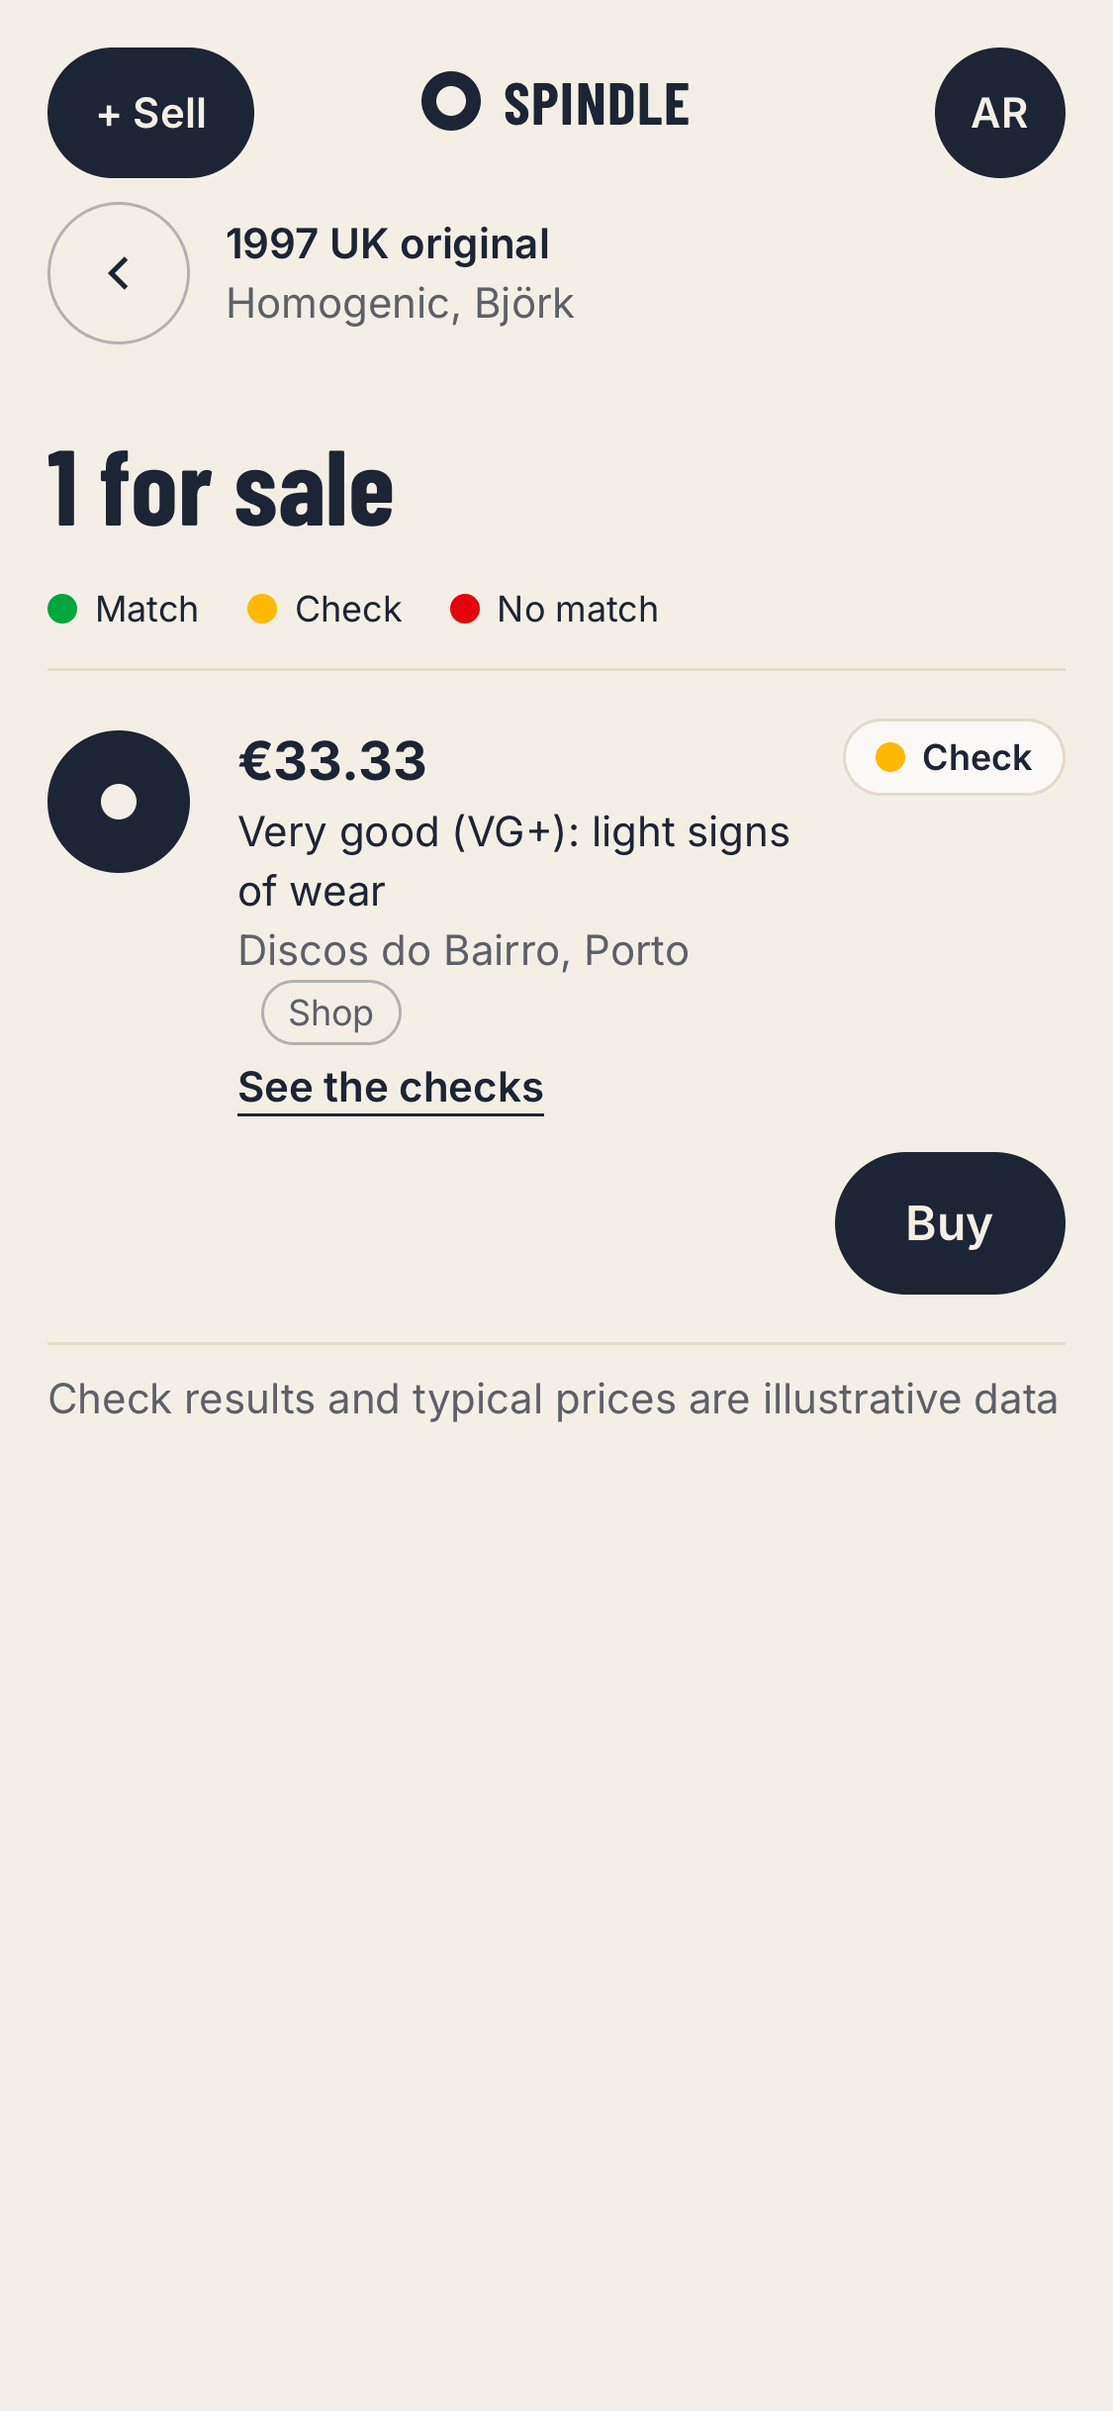
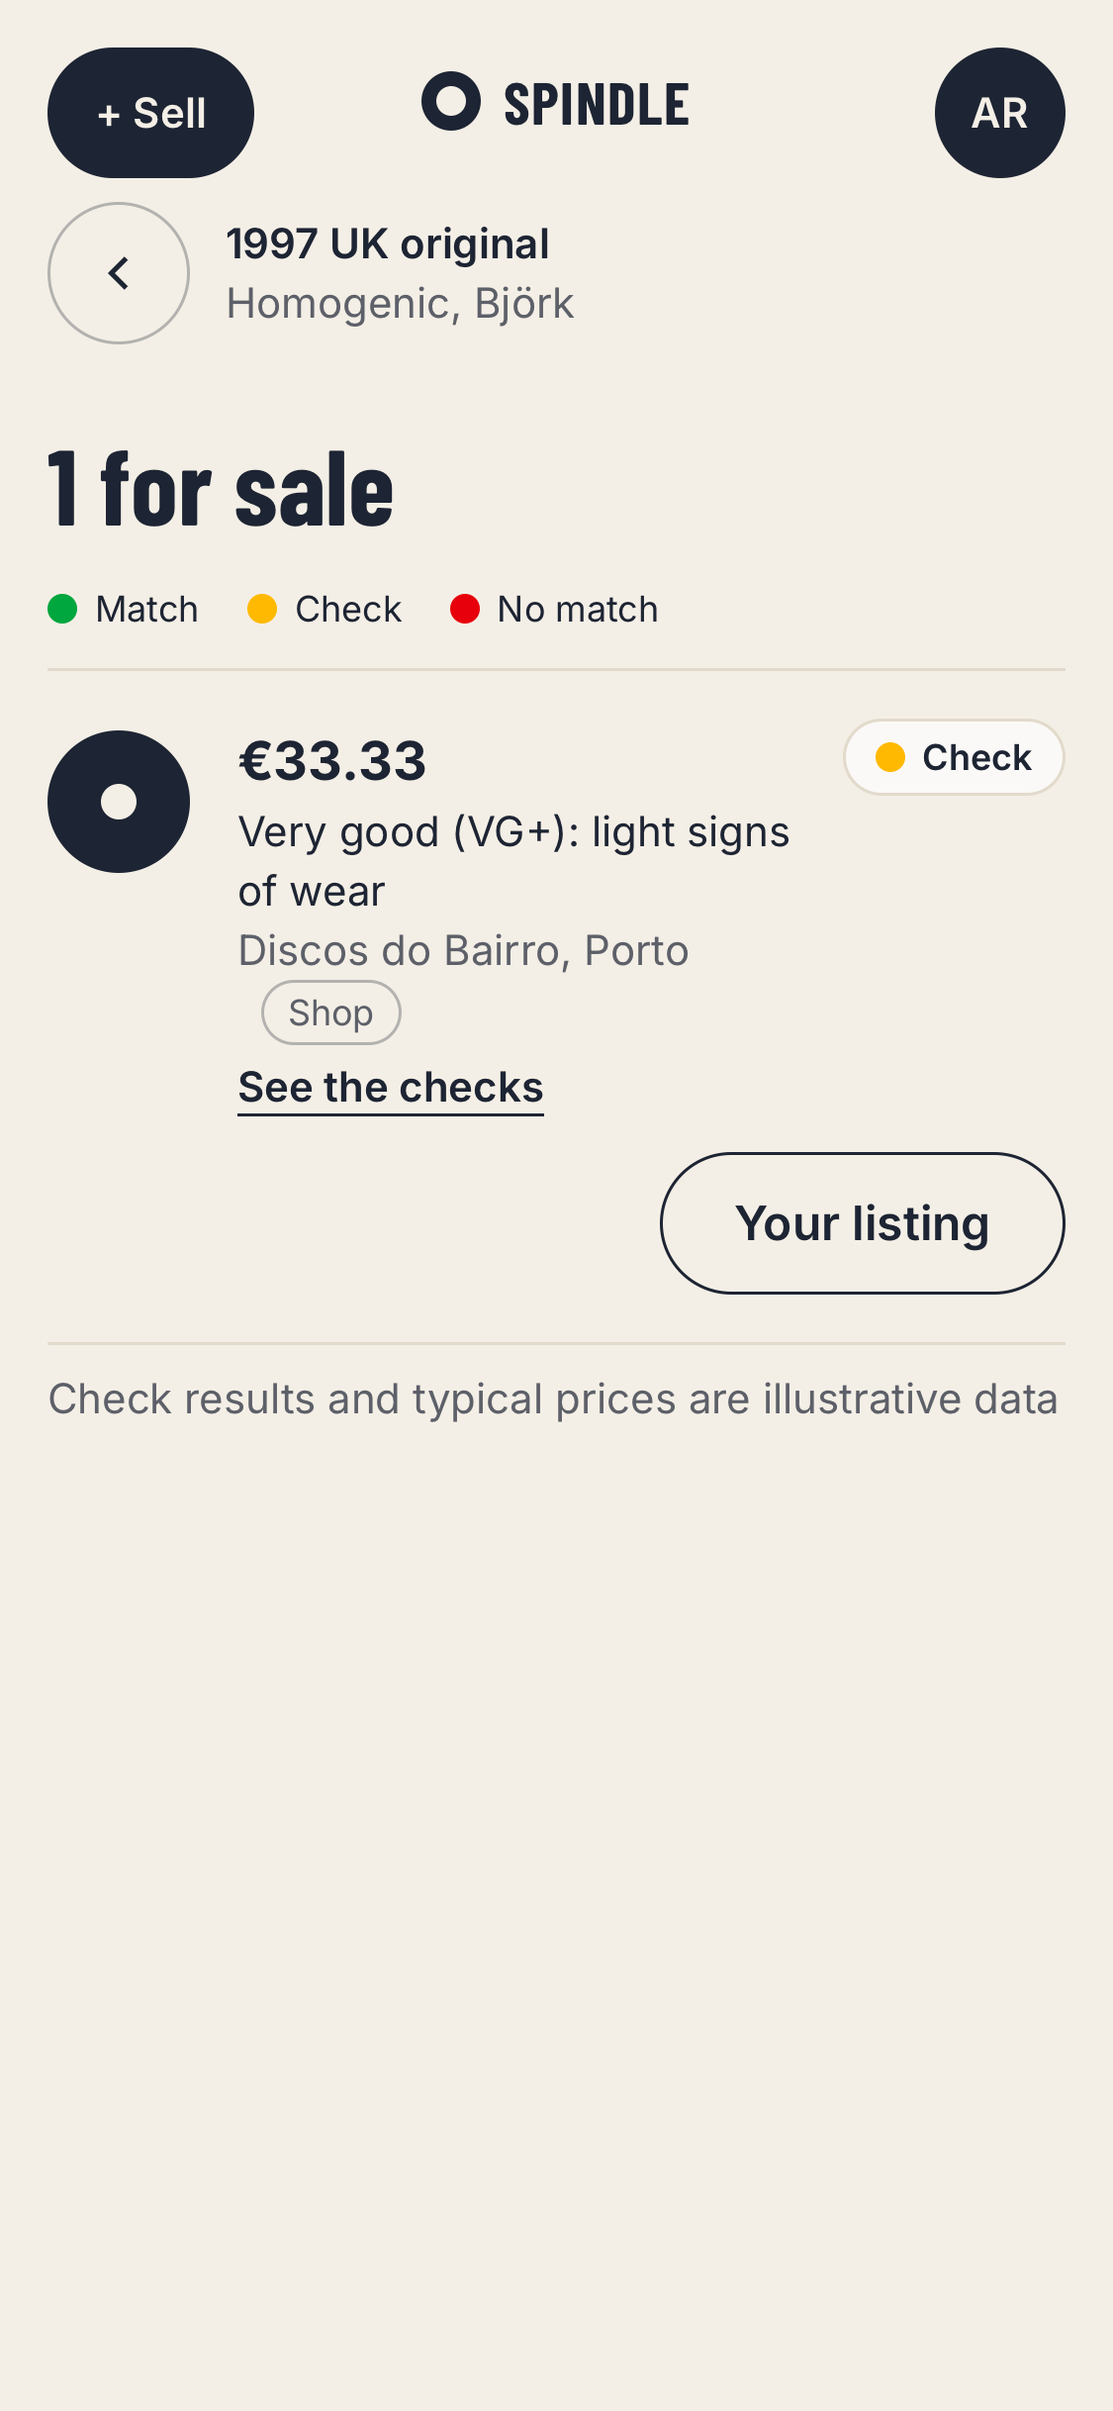
Story 8: "Your listing" instead of Buy on the seller's own listings; Traceability rows

Changed region(s): [[0.6533, 0.468, 0.9644, 0.5616], [0.5911, 0.4992, 0.6222, 0.5304]]

diff --git a/components/ListingList.tsx b/components/ListingList.tsx
@@ -7,12 +7,14 @@ import { yellowWarning } from "@/lib/rules/yellowWarning";
 import { priceLabel, type TypicalRange } from "@/lib/rules/fairPrice";
 import { LightLegend, TrafficLight } from "@/components/TrafficLight";
 import { BuyButton } from "@/components/BuyButton";
-import { checkoutPath } from "@/lib/rules/checkoutAccess";
+import { checkoutPath, isOwnListing } from "@/lib/rules/checkoutAccess";
+import { YourListing } from "@/components/YourListing";
 import { sellerText } from "@/lib/rules/seller";
 import { SellerLine } from "@/components/SellerLine";
 
 // Verified listings for one version (story 5), each with its price label (story 6): on its own screen on phone, beside the recommendation on desktop.
-// "from" tells the listing check screen where its Back button goes.
+// "from" tells the listing check screen where its Back button goes. viewerId: the signed-in user's profile id,
+// so their own listings show "Your listing" instead of Buy (story 8 · finding #12).
 export function ListingList({
   versionId,
   listings,
@@ -20,6 +22,7 @@ export function ListingList({
   ranking,
   from,
   Heading,
+  viewerId,
 }: {
   versionId: string;
   listings: ListingDetails[];
@@ -28,6 +31,7 @@ export function ListingList({
   ranking: Priority[];
   from: "list" | "recommendation";
   Heading: "h1" | "h2";
+  viewerId: string | null;
 }) {
   const rows = listingsForVersion(listings, versionId);
   const forSale = rows.filter((r) => r.light !== "red").length;
@@ -83,11 +87,15 @@ export function ListingList({
               <TrafficLight light={light} />
               {light !== "red" && (
                 <div className="flex w-full justify-end">
-                  <BuyButton
-                    href={checkoutPath(l.id, versionId)}
-                    listingLabel={label}
-                    warning={light === "yellow" ? yellowWarning(l.checks, l.hasMatrixPhoto, movedHere) : null}
-                  />
+                  {isOwnListing(l.sellerId, viewerId) ? (
+                    <YourListing />
+                  ) : (
+                    <BuyButton
+                      href={checkoutPath(l.id, versionId)}
+                      listingLabel={label}
+                      warning={light === "yellow" ? yellowWarning(l.checks, l.hasMatrixPhoto, movedHere) : null}
+                    />
+                  )}
                 </div>
               )}
             </li>

diff --git a/lib/db/listings.ts b/lib/db/listings.ts
@@ -30,6 +30,7 @@ export function toListingFacts(l: ListingRow): ListingFacts {
 // --- Listings screen (story 5) ----------------------------------------------
 
 export type ListingDetails = ListingForList & {
+  sellerId: string; // profile id: the seller sees "Your listing" instead of Buy (finding #12)
   seller: Seller;
   city: string | null;
   condition: { code: string; name: string; explanation: string };
@@ -68,7 +69,7 @@ export async function getVersionListings(versionId: string): Promise<VersionList
   const listings = await client
     .from("listings")
     .select(
-      `id, price, ${LISTING_FACTS_COLUMNS},
+      `id, price, seller_id, ${LISTING_FACTS_COLUMNS},
        profiles (shop_name, city),
        condition_grades (code, name, explanation),
        claimed:versions!listings_claimed_version_id_fkey (name),
@@ -94,6 +95,7 @@ export async function getVersionListings(versionId: string): Promise<VersionList
         ...toListingFacts(l as unknown as ListingRow),
         id: l.id,
         price: Number(l.price),
+        sellerId: l.seller_id,
         seller: sellerOf(seller.shop_name),
         city: seller.city,
         condition: grade,
@@ -119,7 +121,7 @@ export async function getListingCheck(listingId: string): Promise<ListingCheckDa
   const result = await db()
     .from("listings")
     .select(
-      `id, price, cover_photo_url, record_photo_url, ${LISTING_FACTS_COLUMNS},
+      `id, price, seller_id, cover_photo_url, record_photo_url, ${LISTING_FACTS_COLUMNS},
        profiles (shop_name, city),
        condition_grades (code, name, explanation),
        claimed:versions!listings_claimed_version_id_fkey (name, albums (id, title, artist)),
@@ -137,6 +139,7 @@ export async function getListingCheck(listingId: string): Promise<ListingCheckDa
     ...toListingFacts(l as unknown as ListingRow),
     id: l.id,
     price: Number(l.price),
+    sellerId: l.seller_id,
     seller: sellerOf(seller.shop_name),
     city: seller.city,
     condition: l.condition_grades as unknown as ListingDetails["condition"],

diff --git a/tests/e2e/sell.spec.ts b/tests/e2e/sell.spec.ts
@@ -136,7 +136,15 @@ test("first sale: List for sale waits for every required field and the city; the
   await expect(row).toContainText("Check");
   await expect(row).toContainText("Discos do Bairro");
   await expect(row).toContainText("Porto");
+  // The seller's own listing: "Your listing" instead of Buy (finding #12), on the list and the check screen.
+  await expect(row.getByText("Your listing")).toBeVisible();
+  await expect(row.getByRole("link", { name: /^Buy/ })).toHaveCount(0);
+  await expect(row.getByRole("button", { name: /^Buy/ })).toHaveCount(0);
   await screenshot(page, 8, "sell-listed");
+  await row.getByRole("link", { name: /^Open/ }).click();
+  await expect(page.getByText("Your listing")).toBeVisible();
+  await expect(page.getByRole("button", { name: /Buy with protection/ })).toHaveCount(0);
+  await expect(page.getByRole("link", { name: /Buy with protection/ })).toHaveCount(0);
 
   const { data } = await admin()
     .from("listings")
@@ -152,6 +160,11 @@ test("first sale: List for sale waits for every required field and the city; the
     profiles: { city: "Porto", shop_name: "Discos do Bairro" },
   });
   expect(data!.check_results.map((c) => c.result)).toEqual(["uncertain", "uncertain", "uncertain"]);
+
+  // Never the checkout for the seller's own listing, even from its address.
+  const own = await admin().from("listings").select("id").eq("seller_id", profileId).single();
+  await page.goto(`/checkout/${own.data!.id}?version=${V_HOMOGENIC_1997}`);
+  await expect(page.getByText("This page could not be found.")).toBeVisible();
 });
 
 test("price: typical range and label while typing; invalid prices refused; photos above 5 MB refused", async ({ page }) => {

diff --git a/tests/unit/checkoutAccess.test.ts b/tests/unit/checkoutAccess.test.ts
@@ -1,7 +1,7 @@
 // Decision table from story 7 · Acceptance criteria: red listings cannot reach the checkout;
 // a sold listing cannot be bought again. Green and yellow can (use case 1).
 import { describe, expect, it } from "vitest";
-import { canCheckout, checkoutPath } from "@/lib/rules/checkoutAccess";
+import { canCheckout, checkoutPath, isOwnListing } from "@/lib/rules/checkoutAccess";
 import type { ListingForList } from "@/lib/rules/listingOrder";
 
 const allMatch = { cover_label: "match", country_year: "match", matrix: "match" } as const;
@@ -25,6 +25,26 @@ describe("canCheckout", () => {
     ["version it is not shown under", listing(), "v1972", false],
   ] as const)("%s → %s", (_case, l, versionId, expected) => {
     expect(canCheckout(l, versionId)).toBe(expected);
+  });
+});
+
+// Story 8 · finding #12 (DECISIONS): a signed-in seller sees "Your listing" instead of Buy, and never reaches the checkout.
+describe("isOwnListing and the seller's own listing", () => {
+  it.each([
+    // listing's seller, signed-in seller, own
+    ["p1", "p1", true],
+    ["p1", "p2", false],
+    ["p1", null, false], // signed out: Buy, then log in (story 7)
+  ] as const)("seller %s, viewer %s → %s", (seller, viewer, expected) => {
+    expect(isOwnListing(seller, viewer)).toBe(expected);
+  });
+
+  it.each([
+    ["green, own listing", "p1", false],
+    ["green, someone else's", "p2", true],
+    ["green, signed out", null, true],
+  ] as const)("%s → can reach the checkout %s", (_case, viewer, expected) => {
+    expect(canCheckout({ ...listing(), sellerId: "p1" }, "v2012", viewer)).toBe(expected);
   });
 });
 

diff --git a/lib/rules/checkoutAccess.ts b/lib/rules/checkoutAccess.ts
@@ -2,9 +2,21 @@
 // a sold listing cannot be bought again): covered by tests/unit/checkoutAccess.test.ts.
 import { listingsForVersion, type ListingForList } from "./listingOrder";
 
+// A signed-in seller's own listing (story 8 · finding #12): "Your listing" instead of Buy, never the checkout.
+// viewerSellerId is the signed-in user's profile id, or null when signed out.
+export function isOwnListing(listingSellerId: string, viewerSellerId: string | null): boolean {
+  return viewerSellerId !== null && listingSellerId === viewerSellerId;
+}
+
 // The version in the address is the one the buyer came from: a listing that is red under its claimed
 // version is yellow ("Moved here · check pending") under its actual one, and can be bought there.
-export function canCheckout(listing: ListingForList, versionId: string): boolean {
+// The seller's own listing never reaches the checkout (finding #12).
+export function canCheckout(
+  listing: ListingForList & { sellerId?: string },
+  versionId: string,
+  viewerSellerId: string | null = null,
+): boolean {
+  if (listing.sellerId !== undefined && isOwnListing(listing.sellerId, viewerSellerId)) return false;
   const row = listingsForVersion([listing], versionId)[0];
   return row !== undefined && row.light !== "red"; // no row = not on sale, or not shown under that version
 }

diff --git a/app/listings/[listingId]/page.tsx b/app/listings/[listingId]/page.tsx
@@ -9,7 +9,9 @@ import { yellowWarning } from "@/lib/rules/yellowWarning";
 import { Header } from "@/components/Header";
 import { TrafficLight } from "@/components/TrafficLight";
 import { BuyButton } from "@/components/BuyButton";
-import { checkoutPath } from "@/lib/rules/checkoutAccess";
+import { checkoutPath, isOwnListing } from "@/lib/rules/checkoutAccess";
+import { currentProfileId } from "@/lib/db/profiles";
+import { YourListing } from "@/components/YourListing";
 import { sellerText } from "@/lib/rules/seller";
 import { SellerLine } from "@/components/SellerLine";
 
@@ -33,7 +35,7 @@ export default async function ListingCheckPage({
 }) {
   const { listingId } = await params;
   const query = await searchParams;
-  const l = await getListingCheck(listingId);
+  const [l, viewerId] = await Promise.all([getListingCheck(listingId), currentProfileId()]);
   if (!l) notFound();
 
   const versionId = one(query.version) ?? l.claimedVersionId;
@@ -136,6 +138,8 @@ export default async function ListingCheckPage({
         </p>
         {light === "red" ? (
           <p className="font-semibold">Not for sale here</p>
+        ) : isOwnListing(l.sellerId, viewerId) ? (
+          <YourListing />
         ) : (
           <BuyButton
             text="Buy with protection"

diff --git a/app/actions.ts b/app/actions.ts
@@ -4,6 +4,7 @@ import { listAlbumSummaries, type AlbumSummary } from "@/lib/db/albums";
 import { searchAlbums } from "@/lib/rules/albumSearch";
 import { searchSuggestions } from "@/lib/rules/searchSuggestions";
 import { getVersionListings, type ListingDetails } from "@/lib/db/listings";
+import { currentProfileId } from "@/lib/db/profiles";
 
 export type SearchResponse = { albums: AlbumSummary[]; suggestions: AlbumSummary[] };
 
@@ -15,7 +16,8 @@ export async function search(typed: string): Promise<SearchResponse> {
 
 // Listings beside the recommendation on desktop (story 5): loaded on their own, so a failure only
 // affects that area, and phones (which open the listings on their own screen) never load them.
-export async function versionListings(versionId: string): Promise<ListingDetails[]> {
-  const data = await getVersionListings(versionId);
-  return data?.listings ?? [];
+// viewerId: the signed-in user's profile id, for "Your listing" on their own listings (finding #12).
+export async function versionListings(versionId: string): Promise<{ listings: ListingDetails[]; viewerId: string | null }> {
+  const [data, viewerId] = await Promise.all([getVersionListings(versionId), currentProfileId()]);
+  return { listings: data?.listings ?? [], viewerId };
 }

diff --git a/lib/db/profiles.ts b/lib/db/profiles.ts
@@ -1,5 +1,6 @@
 // Public profile of a signed-in user (story 9). Created by the app at sign-up, not by a database trigger (DECISIONS · story 9).
 import { db } from "./client";
+import { currentUserId } from "./session";
 
 // True when the profile was saved. False leaves the account without a profile; it is recreated at login or before Buy / Sell.
 export async function createProfile(userId: string, name: string): Promise<boolean> {
@@ -32,4 +33,14 @@ export async function getSellerProfile(userId: string, nameIfMissing: string): P
     if (error) throw new Error(`Could not load the profile: ${error.message}`);
   }
   return data ? { id: data.id, city: data.city, shopName: data.shop_name } : null;
+}
+
+// The signed-in user's profile id, or null when signed out or without a profile.
+// Used to show "Your listing" instead of Buy on the seller's own listings (finding #12).
+export async function currentProfileId(): Promise<string | null> {
+  const userId = await currentUserId();
+  if (!userId) return null;
+  const { data, error } = await db().from("profiles").select("id").eq("user_id", userId).maybeSingle();
+  if (error) throw new Error(`Could not load the profile: ${error.message}`);
+  return data?.id ?? null;
 }

diff --git a/components/ListingsBeside.tsx b/components/ListingsBeside.tsx
@@ -12,7 +12,7 @@ import { LoadingMask } from "./LoadingMask";
 // loading mask and error screen (SPEC · Shared rules), so a failure never hides the recommendation.
 const DESKTOP = "(min-width: 1024px)";
 
-type State = { kind: "loading" } | { kind: "error" } | { kind: "ready"; listings: ListingDetails[] };
+type State = { kind: "loading" } | { kind: "error" } | { kind: "ready"; listings: ListingDetails[]; viewerId: string | null };
 
 export function ListingsBeside({
   versionId,
@@ -31,7 +31,7 @@ export function ListingsBeside({
     let current = true;
     setState({ kind: "loading" });
     versionListings(versionId)
-      .then((listings) => current && setState({ kind: "ready", listings }))
+      .then(({ listings, viewerId }) => current && setState({ kind: "ready", listings, viewerId }))
       .catch(() => current && setState({ kind: "error" }));
     return () => {
       current = false;
@@ -52,6 +52,7 @@ export function ListingsBeside({
           ranking={ranking}
           from="recommendation"
           Heading="h2"
+          viewerId={state.viewerId}
         />
       )}
     </aside>

diff --git a/app/checkout/[listingId]/actions.ts b/app/checkout/[listingId]/actions.ts
@@ -4,6 +4,7 @@ import { redirect } from "next/navigation";
 import { getListingCheck } from "@/lib/db/listings";
 import { placeOrder } from "@/lib/db/orders";
 import { currentUserId } from "@/lib/db/session";
+import { currentProfileId } from "@/lib/db/profiles";
 import { canCheckout, checkoutPath } from "@/lib/rules/checkoutAccess";
 import { checkoutTotal } from "@/lib/rules/checkoutTotal";
 import { withReturn } from "@/lib/rules/login";
@@ -31,6 +32,7 @@ export async function pay(listingId: string, versionId: string, _prev: PayState,
     const listing = await getListingCheck(listingId);
     // Checked again here: the listing may have been sold, or the page opened for a red listing.
     if (!listing || !canCheckout(listing, versionId)) return { status: "sold" };
+    if (!canCheckout(listing, versionId, await currentProfileId())) return { status: "failed" }; // own listing (#12)
     const result = await placeOrder(buyerId, listingId, checkoutTotal(listing.price), address);
     if ("sold" in result) return { status: "sold" };
     orderId = result.orderId;

diff --git a/app/checkout/[listingId]/page.tsx b/app/checkout/[listingId]/page.tsx
@@ -2,6 +2,7 @@ import Link from "next/link";
 import { notFound, redirect } from "next/navigation";
 import { getListingCheck } from "@/lib/db/listings";
 import { currentUserId } from "@/lib/db/session";
+import { currentProfileId } from "@/lib/db/profiles";
 import { canCheckout, checkoutPath } from "@/lib/rules/checkoutAccess";
 import { withReturn } from "@/lib/rules/login";
 import { Header } from "@/components/Header";
@@ -26,7 +27,8 @@ export default async function CheckoutPage({
   const versionId = one((await searchParams).version) ?? l.claimedVersionId;
 
   if (!(await currentUserId())) redirect(withReturn("/login", checkoutPath(listingId, versionId)));
-  if (!canCheckout(l, versionId)) notFound(); // red, sold or removed: never reaches the checkout
+  // Red, sold or removed, or the seller's own listing (finding #12): never reaches the checkout.
+  if (!canCheckout(l, versionId, await currentProfileId())) notFound();
 
   const versionName = versionId === l.actualVersionId ? l.actualVersionName : l.claimedVersionName;
 

diff --git a/app/versions/[versionId]/listings/page.tsx b/app/versions/[versionId]/listings/page.tsx
@@ -1,6 +1,7 @@
 import Link from "next/link";
 import { notFound } from "next/navigation";
 import { getVersionListings } from "@/lib/db/listings";
+import { currentProfileId } from "@/lib/db/profiles";
 import { parsePriorities, formatPriorities } from "@/lib/rules/priorities";
 import { Header } from "@/components/Header";
 import { ListingList } from "@/components/ListingList";
@@ -15,7 +16,7 @@ export default async function ListingsPage({
 }) {
   const { versionId } = await params;
   const { priorities } = await searchParams;
-  const data = await getVersionListings(versionId);
+  const [data, viewerId] = await Promise.all([getVersionListings(versionId), currentProfileId()]);
   if (!data) notFound();
   const { version, listings } = data;
 
@@ -51,6 +52,7 @@ export default async function ListingsPage({
           ranking={ranking}
           from="list"
           Heading="h1"
+          viewerId={viewerId}
         />
       </div>
     </main>
